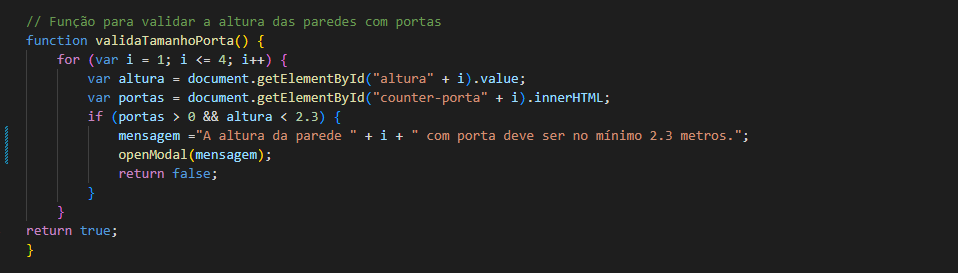
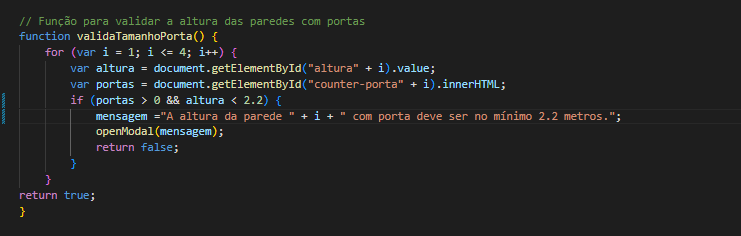
corrigido regras
corrigido regras de negocio e corrigido ortografia do read.me

diff --git a/tintaNecessaria/public/js/script.js b/tintaNecessaria/public/js/script.js
@@ -96,8 +96,8 @@ function validaTamanhoPorta() {
     for (var i = 1; i <= 4; i++) {
         var altura = document.getElementById("altura" + i).value;
         var portas = document.getElementById("counter-porta" + i).innerHTML;
-        if (portas > 0 && altura < 2.3) {
-            mensagem ="A altura da parede " + i + " com porta deve ser no mínimo 2.3 metros.";
+        if (portas > 0 && altura < 2.2) {
+            mensagem ="A altura da parede " + i + " com porta deve ser no mínimo 2.2 metros.";
             openModal(mensagem);
             return false;
         }

diff --git a/README.md b/README.md
@@ -2,45 +2,46 @@
 # ProjetoTintaNecessaria
  
 Faça o download do projeto: Baixe o projeto "ProjetoTintaNecessaria" em seu computador.
-voce pode clicar no botão em amarelo eu trouxe ele no formato .zip, há varias formas de baixar o projeto aqui vamos exemplificar pelo arquivo compactado.
+você deve clicar no botão em amarelo. Será baixado o arquivo no formato .zip
 
 <img src="img/download.PNG" style="width: 85%;" alt="tela-Principal">
 
-Acesse a pasta do projeto:  e navegue até a pasta onde você baixou e entre na pasta "tintaNecessaria" e abra um terminal na pasta.
+Após descompactar o arquivo, acesse a pasta do projeto, navegue até a pasta "tintaNecessaria" e abra um terminal na pasta.
 
 <img src="img/caminhoarquivos.PNG" style="width: 85%;" alt="tela-Principal">
 
-Instalar as dependências: para instalar as dependências do projeto com o cmd aberto na pasta. Utilize o comando **composer install** na pasta do projeto.
+Instalar as dependências: para instalar as dependências do projeto com o cmd aberto na pasta, utilize o comando **composer install**.
 
 <img src="img/composer.PNG" style="width: 85%;" alt="tela-Principal">
 
-altere o nome do seu .env.example para .env
+Em seguida altere o nome do arquivo de .env.example para .env
 
 <img src="img/env.PNG" style="width: 85%;" alt="tela-Principal">
 
-Para garantir que o programa rode normalmente rode o comando **php artisan key:generate** no cmd na pasta
+Para garantir que o programa funcione normalmente, rode o comando **php artisan key:generate** 
 
 <img src="img/key.PNG" style="width: 85%;" alt="tela-Principal">
 
-use o comamdo php artisan serve 
+Use o comando **php artisan serve** 
 
 <img src="img/servidor.PNG" style="width: 85%;" alt="tela-Principal">
 
-endereço http://localhost:8000/ no seu navegador.
+Após isso, acesse o endereço http://localhost:8000/ no seu navegador. E o programa deve rodar normalmente.
 
 <img src="img/telaInicial.PNG" style="width: 85%;" alt="tela-Principal">
 
 1.Nenhuma parede pode ter menos de 1 metro quadrado nem mais de 50 metros quadrados, mas podem possuir alturas e larguras diferentes
-Não considerar teto nem piso.
+7.Não considerar teto nem piso.
+
 Código e layout da regra
 <img src="img/1regra.PNG" style="width: 85%;" alt="tela-Principal">
 <img src="img/regra1layout.PNG" style="width: 85%;" alt="tela-Principal">
 
 2.O total de área das portas e janelas deve ser no máximo 50% da área de parede
 
-5.Cada janela possui as medidas: 2,00 x 1,20 mtos
+4.Cada janela possui as medidas: 2,00 x 1,20 mtos
 
-6.Cada porta possui as medidas: 0,80 x 1,90
+5.Cada porta possui as medidas: 0,80 x 1,90
 
 Código e layout da regra
 <img src="img/50porcento.PNG" style="width: 85%;" alt="tela-Principal">
@@ -51,13 +52,14 @@ Código e layout da regra
 
 <img src="img/codigoregra3.PNG" style="width: 85%;" alt="tela-Principal">
 <img src="img/layoutregra3.PNG" style="width: 85%;" alt="tela-Principal">
- 
-As variações de tamanho das latas de tinta são: (0,5 L),(2,5 L),(3,6 L) e (18 L)
+
+6.Cada litro de tinta é capaz de pintar 5m²
+8.As variações de tamanho das latas de tinta são: (0,5 L),(2,5 L),(3,6 L) e (18 L)
 Código e layout da regra
 <img src="img/usoModal.PNG" style="width: 85%;" alt="tela-Principal">
 <img src="img/latasTinta.PNG" style="width: 85%;" alt="tela-Principal">
 
-Também foi validado se os campos estao sendo passados vazios 
+O programa não aceita dados de altura e largura vazios. 
 
 <img src="img/DadosVazios.PNG" style="width: 85%;" alt="tela-Principal">
 
